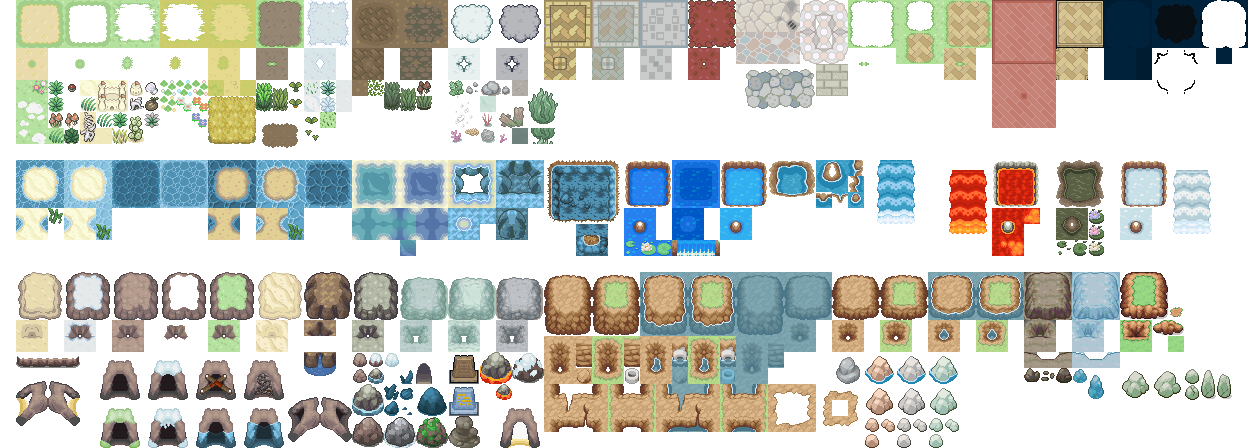
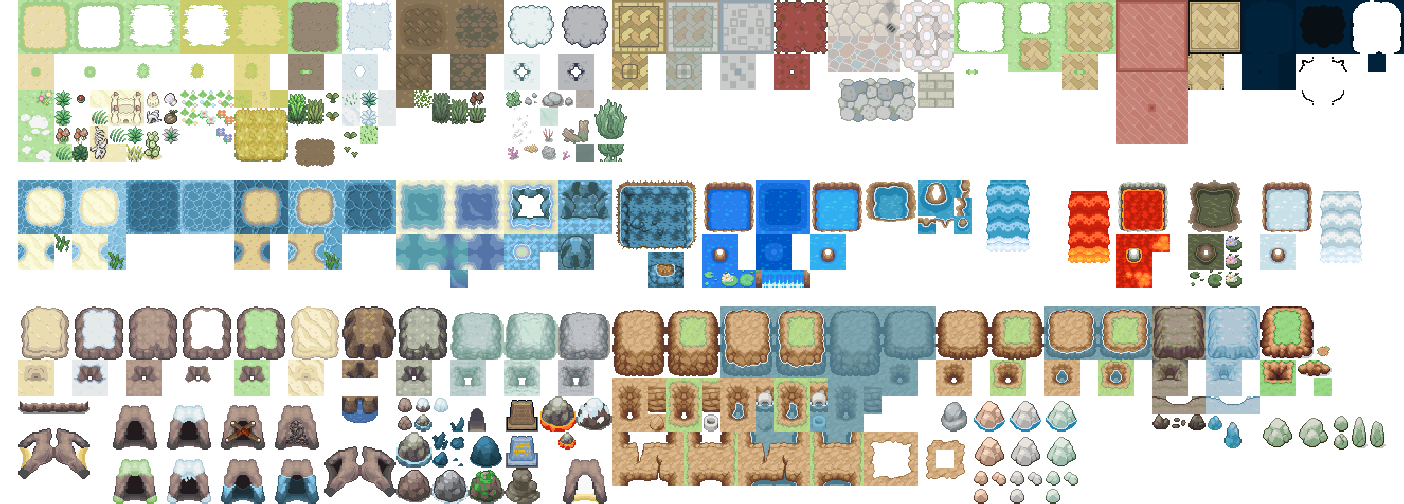
added pushing animations

diff --git a/public/index.js b/public/index.js
@@ -22,81 +22,119 @@ let controls;
 let cursors;
 let player;
 let showDebug = false;
+let colliding;
 
 function preload() {
   this.load.image("tiles", "./pokemon-terrain.png");
   this.load.tilemapTiledJSON("map", "./grass-test.json");
-  this.load.spritesheet('link', './simple-link.png', { frameWidth: 16, frameHeight: 20 });
+  this.load.spritesheet('link', './simple-link-extruded.png', { frameWidth: 16, frameHeight: 20 });
 }
 
 function create() {
   // Parameters are the name you gave the tileset in Tiled and then the key of the tileset image in
   // Phaser's cache (i.e. the name you used in preload)
   const map = this.make.tilemap({ key: "map" });
-  const tileset = map.addTilesetImage("pokemon-terrain", "tiles");
+  const tileset = map.addTilesetImage("pokemon-terrain", "tiles", 16, 16, 1, 2);
   const belowLayer = map.createStaticLayer("Tile Layer 1", tileset, 0, 0); // layer index, tileset, x, y
   const worldLayer = map.createStaticLayer("Tile Layer 2", tileset, 0, 0); // layer index, tileset, x, y
   const aboveLayer = map.createStaticLayer("Tile Layer 3", tileset, 0, 0); // layer index, tileset, x, y
 
 
   worldLayer.setCollisionByProperty({ collides: true });
-  const debugGraphics = this.add.graphics().setAlpha(0.75);
-  worldLayer.renderDebug(debugGraphics, {
-    tileColor: null, // Color of non-colliding tiles
-    collidingTileColor: new Phaser.Display.Color(243, 134, 48, 255), // Color of colliding tiles
-    faceColor: new Phaser.Display.Color(40, 39, 37, 255) // Color of colliding face edges
-  });
+
   // By default, everything gets depth sorted on the screen in the order we created things. Here, we
   // want the "Above Player" layer to sit on top of the player, so we explicitly give it a depth.
   // Higher depths will sit on top of lower depth objects.
   aboveLayer.setDepth(10);
 
   // //var player = this.add.sprite(400, 300, 'link');
-   player = this.physics.add.sprite(100, 100, "link");
+  player = this.physics.add
+    .sprite(100, 100, "link")
+    .setSize(16, 16)
+    .setOffset(0, 4);
 
   // // This will watch the player and worldLayer every frame to check for collisions
-   this.physics.add.collider(player, worldLayer);
+  this.physics.add.collider(player, worldLayer, linkPush, null, this);
   // // Create the player's walking animations from the texture atlas. These are stored in the global
   // // animation manager so any sprite can access them.
+  function linkPush(player) {
+    colliding = true;
+  }
 
-   const anims = this.anims;
+  const rateFrames = 8;
+  const anims = this.anims;
   anims.create({
-    key: "misa-left-walk",
+    key: "link-left-walk",
     frames: anims.generateFrameNames("link", {
       start: 4,
       end: 5
     }),
-    frameRate: 10,
+    frameRate: rateFrames,
     repeat: -1
   });
   anims.create({
-    key: "misa-right-walk",
+    key: "link-right-walk",
     frames: anims.generateFrameNames("link", {
       start: 2,
       end: 3
     }),
-    frameRate: 10,
+    frameRate: rateFrames,
     repeat: -1
   });
   anims.create({
-    key: "misa-front-walk",
+    key: "link-front-walk",
     frames: anims.generateFrameNames("link", {
       start: 6,
       end: 7
     }),
-    frameRate: 10,
+    frameRate: rateFrames,
     repeat: -1
   });
   anims.create({
-    key: "misa-back-walk",
+    key: "link-back-walk",
     frames: anims.generateFrameNames("link", {
       start: 0,
       end: 1
     }),
-    frameRate: 10,
+    frameRate: rateFrames,
     repeat: -1
   });
-
+  anims.create({
+    key: "link-left-push",
+    frames: anims.generateFrameNames("link", {
+      start: 24,
+      end: 25
+    }),
+    frameRate: rateFrames,
+    repeat: -1
+  });
+  anims.create({
+    key: "link-right-push",
+    frames: anims.generateFrameNames("link", {
+      start: 28,
+      end: 29
+    }),
+    frameRate: rateFrames,
+    repeat: -1
+  });
+  anims.create({
+    key: "link-front-push",
+    frames: anims.generateFrameNames("link", {
+      start: 30,
+      end: 31
+    }),
+    frameRate: rateFrames,
+    repeat: -1
+  });
+  anims.create({
+    key: "link-back-push",
+    frames: anims.generateFrameNames("link", {
+      start: 26,
+      end: 27
+    }),
+    frameRate: rateFrames,
+    repeat: -1
+  });
   const camera = this.cameras.main;
   camera.startFollow(player);
   camera.setBounds(0, 0, map.widthInPixels, map.heightInPixels);
@@ -133,8 +171,8 @@ function create() {
 }
 
 function update(time, delta) {
-   const speed = 175;
-   const prevVelocity = player.body.velocity.clone();
+  const speed = 175;
+  const prevVelocity = player.body.velocity.clone();
 
   // Stop any previous movement from the last frame
   player.body.setVelocity(0);
@@ -157,21 +195,34 @@ function update(time, delta) {
   player.body.velocity.normalize().scale(speed);
 
   // Update the animation last and give left/right animations precedence over up/down animations
-  if (cursors.left.isDown) {
-    player.anims.play("misa-left-walk", true);
-  } else if (cursors.right.isDown) {
-    player.anims.play("misa-right-walk", true);
-  } else if (cursors.up.isDown) {
-    player.anims.play("misa-back-walk", true);
-  } else if (cursors.down.isDown) {
-    player.anims.play("misa-front-walk", true);
-  } else {
-    player.anims.stop();
-
-    // If we were moving, pick and idle frame to use
-    if (prevVelocity.x < 0) player.setTexture("link", 5);       // left
-    else if (prevVelocity.x > 0) player.setTexture("link", 2);  // right
-    else if (prevVelocity.y < 0) player.setTexture("link", 0);  // back
-    else if (prevVelocity.y > 0) player.setTexture("link", 6);  // front
+  if (!colliding)
+    if (cursors.left.isDown) {
+      player.anims.play("link-left-walk", true);
+    } else if (cursors.right.isDown) {
+      player.anims.play("link-right-walk", true);
+    } else if (cursors.up.isDown) {
+      player.anims.play("link-back-walk", true);
+    } else if (cursors.down.isDown) {
+      player.anims.play("link-front-walk", true);
+    } else {
+      player.anims.stop();
+      // If we were moving, pick and idle frame to use
+      if (prevVelocity.x < 0) player.setTexture("link", 5);       // left
+      else if (prevVelocity.x > 0) player.setTexture("link", 2);  // right
+      else if (prevVelocity.y < 0) player.setTexture("link", 0);  // back
+      else if (prevVelocity.y > 0) player.setTexture("link", 6);  // front
+    } else {
+    if (cursors.left.isDown) {
+      player.anims.play("link-left-push", true);
+    } else if (cursors.right.isDown) {
+      player.anims.play("link-right-push", true);
+    } else if (cursors.up.isDown) {
+      player.anims.play("link-back-push", true);
+    } else if (cursors.down.isDown) {
+      player.anims.play("link-front-push", true);
+    } else {
+      player.anims.stop();
+    }
   }
+  colliding = false;
 }
